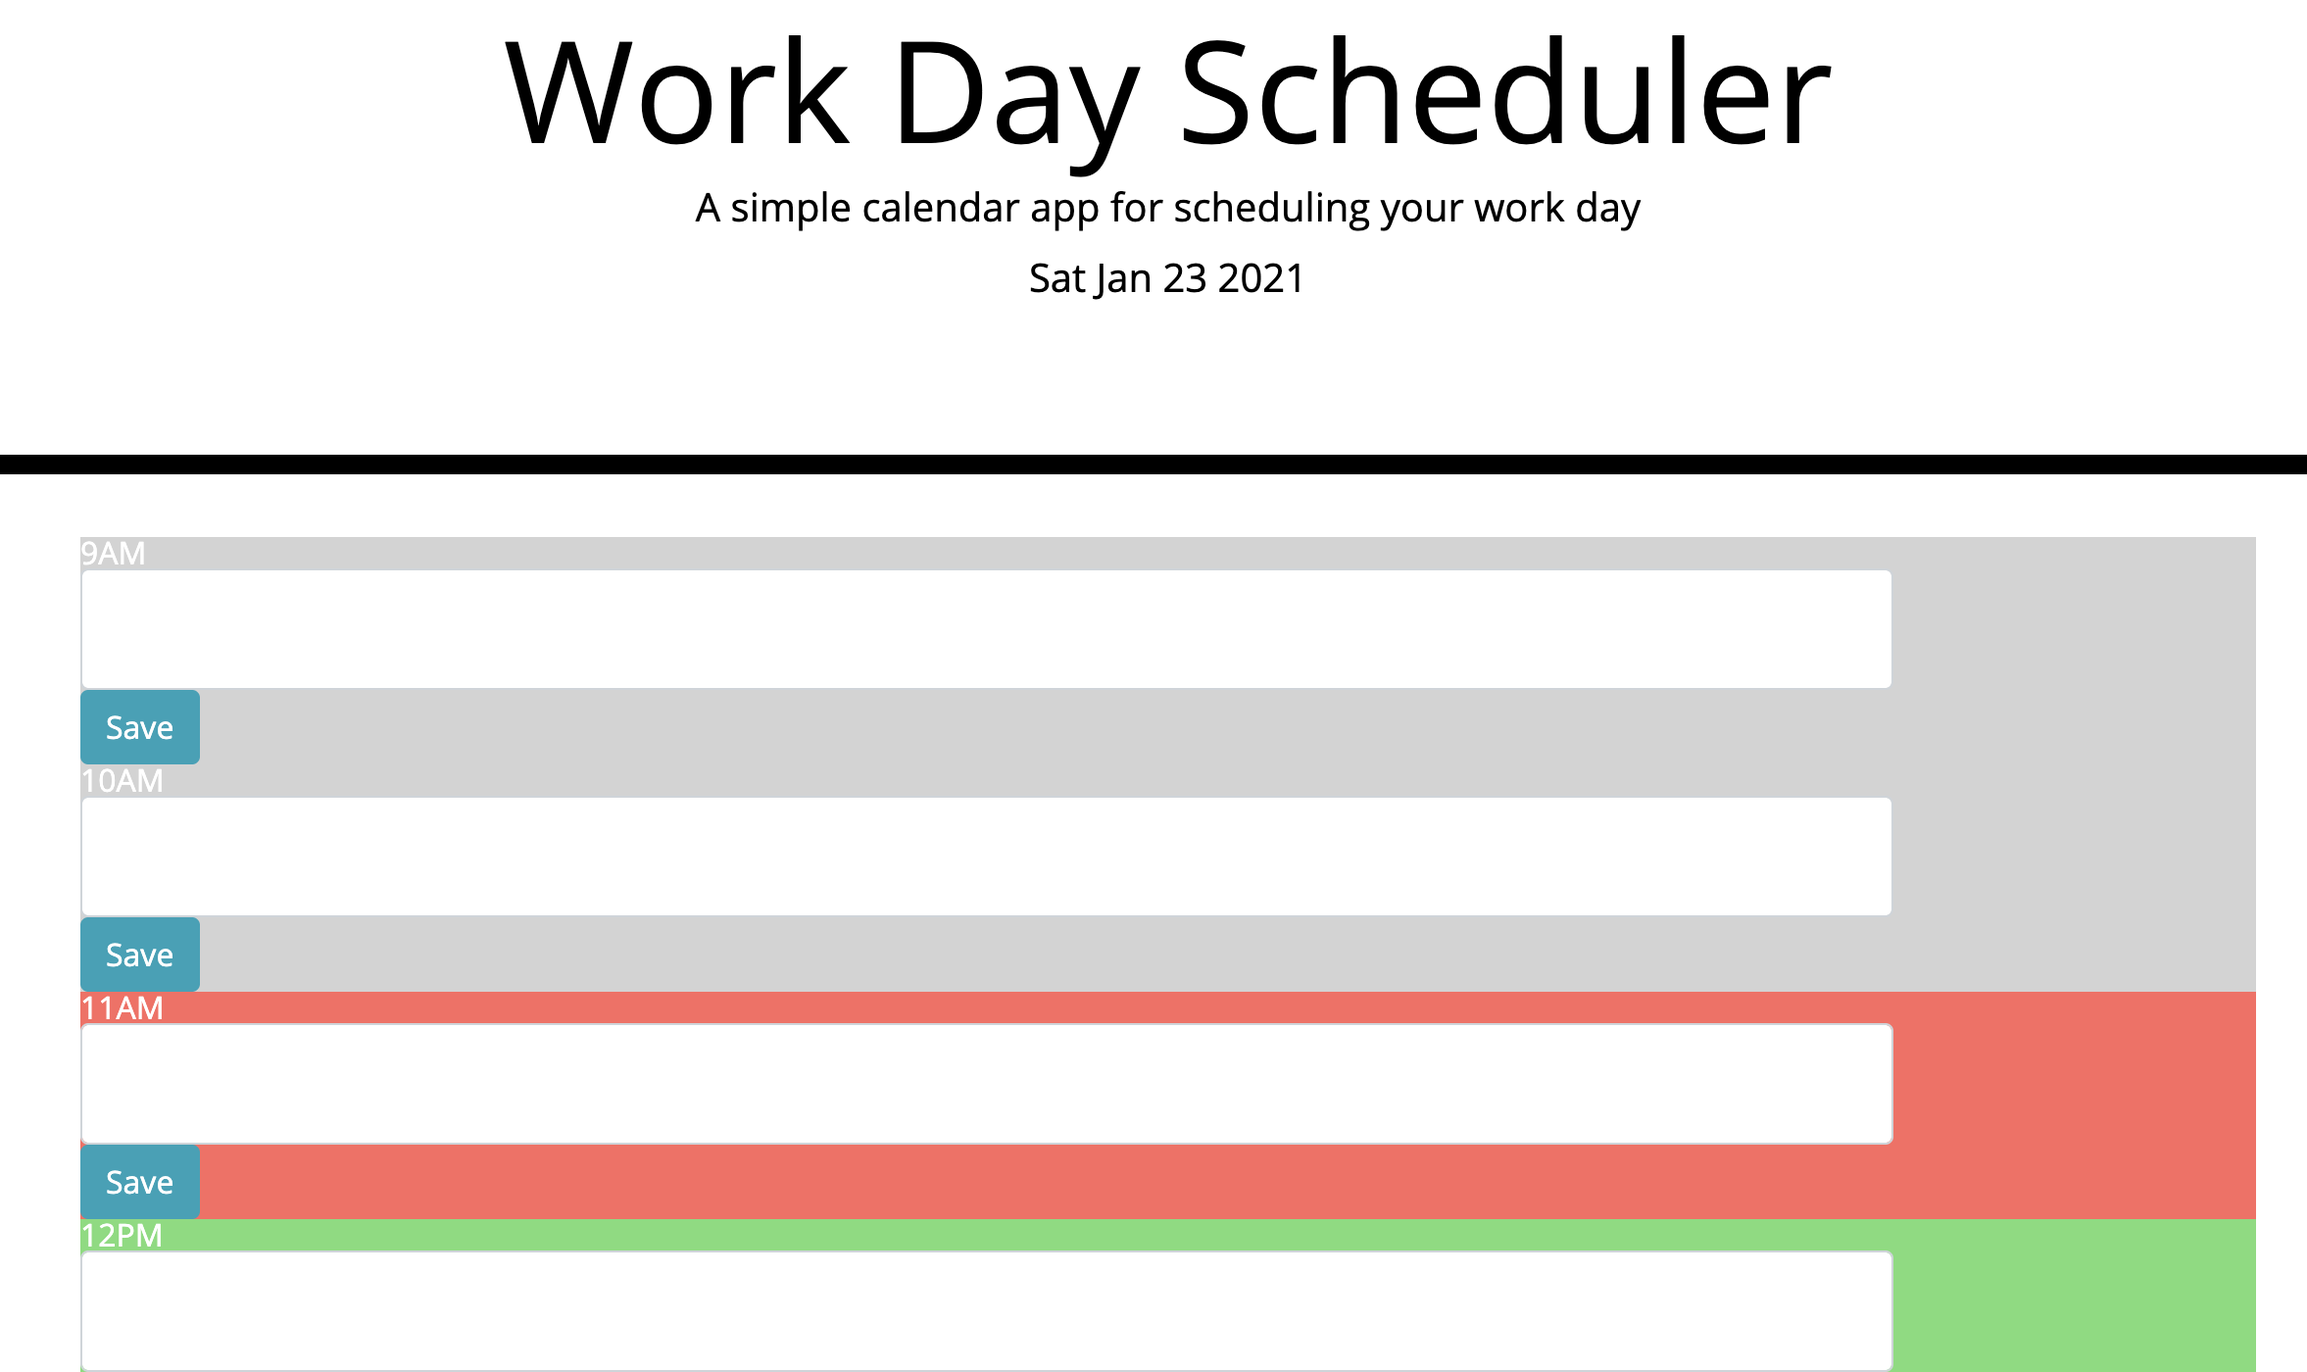
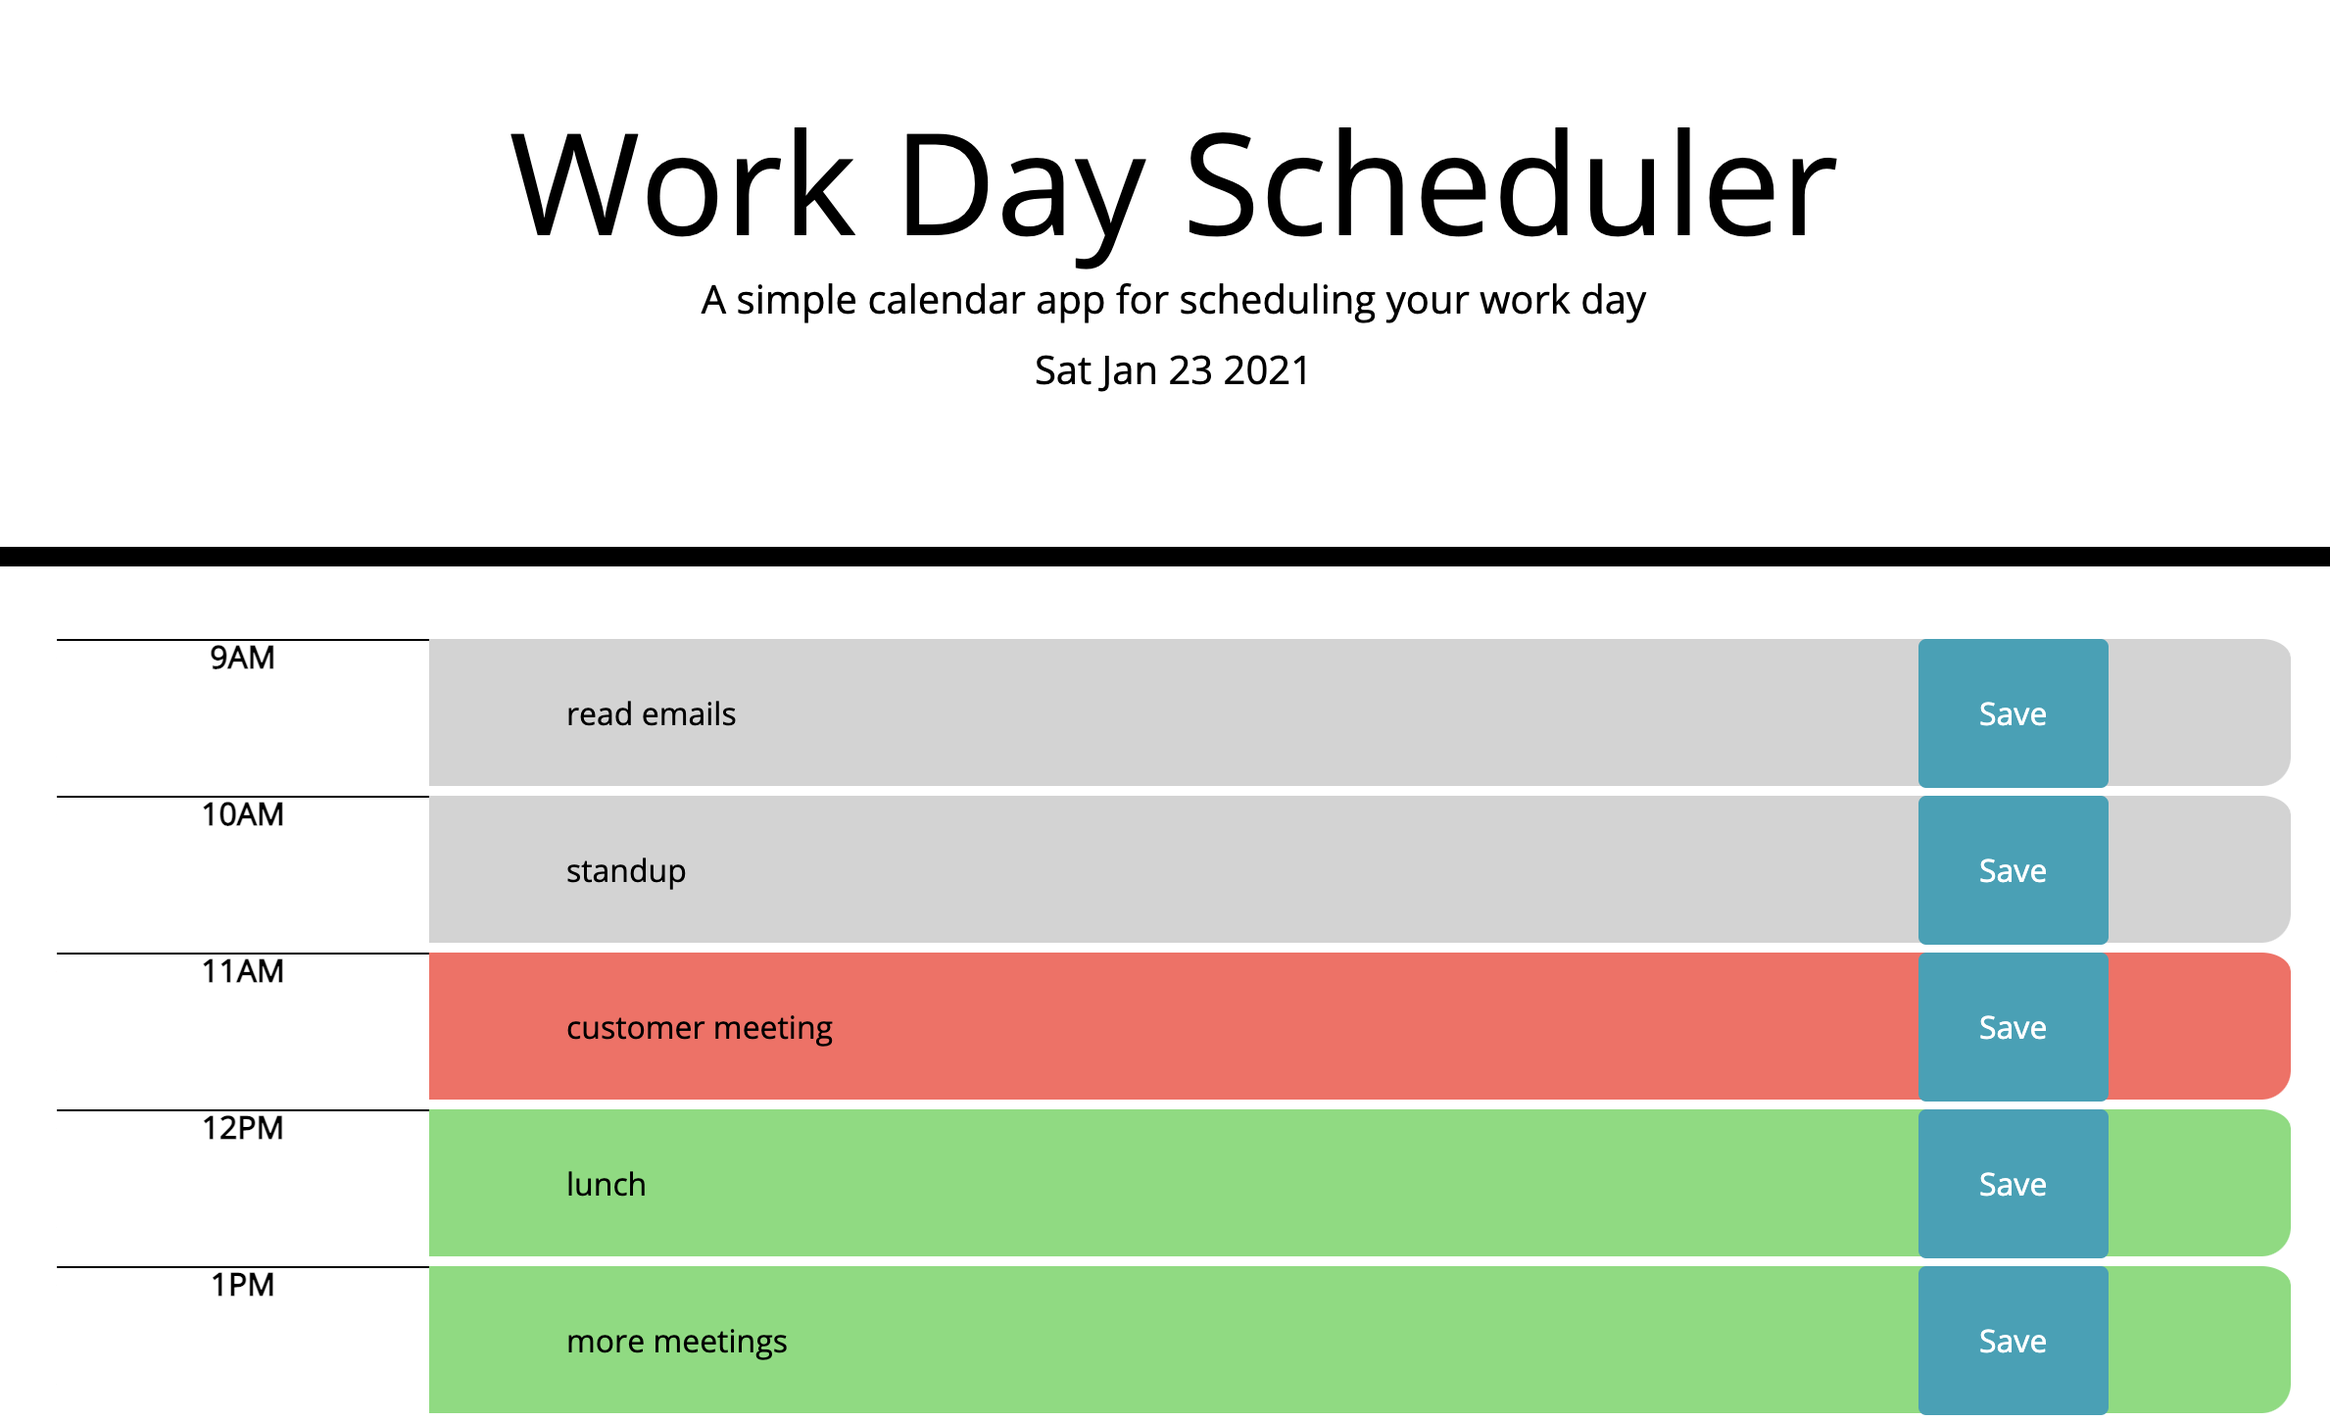
FINAL VERSION

diff --git a/index.html b/index.html
@@ -6,9 +6,12 @@
     <meta name="viewport" content="width=device-width, initial-scale=1.0" />
     <meta http-equiv="X-UA-Compatible" content="ie=edge" />
     <link rel="stylesheet" href="https://stackpath.bootstrapcdn.com/bootstrap/4.3.1/css/bootstrap.min.css" />
+
     <link rel="stylesheet" href="https://use.fontawesome.com/releases/v5.8.1/css/all.css"
       integrity="sha384-50oBUHEmvpQ+1lW4y57PTFmhCaXp0ML5d60M1M7uH2+nqUivzIebhndOJK28anvf" crossorigin="anonymous" />
+
     <link href="https://fonts.googleapis.com/css?family=Open+Sans&display=swap" rel="stylesheet" />
+
     <link rel="stylesheet" href="style.css" />
     <title>Work Day Scheduler</title>
   </head>
@@ -19,77 +22,96 @@
       <p class="lead">A simple calendar app for scheduling your work day</p>
       <p id="currentDay" class="lead"></p>
     </header>
+
+    <!-- Timeblocks go here -->
     <div class="container">
-      <!-- Timeblocks containing time rows -->
-      <!-- Time rows contain time, text, button -->
 
-          <!-- 9am Timeblock -->
-          <div class="row mb-3" id="9" value="9">
-            <div class="col--md-1 ">9AM</div>
-            <textarea class="description form-control col-md-10" type="text" id="input-9" data-time="9"></textarea>
-            <button class ="btn btn-info" type="button" id="9">Save</button>
-          </div>
+      <!-- 9am -->
+      <div class="row time-block" value="9">
+        <div class="col-2 hour">9AM</div>
+        <div class="col-8">
+          <input class="description textarea form-control col-10" type="text" placeholder="Task" id="input-9">
+        </div>
+        <button class="btn btn-info" type="button" id="9">Save</button>
+      </div>
 
-          <!-- 9am Timeblock -->
-          <div class="row mb-3" id="10" value="10">
-            <div class="col--md-1 ">10AM</div>
-            <textarea class="description form-control col-md-10" type="text" id="input-10" data-time="10"></textarea>
-            <button class="btn btn-info" type="button" id="10">Save</button>
-          </div>
+      <!-- 10am -->
+      <div class="row time-block" value="10">
+        <div class="col-2 hour">10AM</div>
+        <div class="col-8">
+          <input class="description textarea form-control col-10" type="text" placeholder="Task" id="input-10">
+        </div>
+        <button class="btn btn-info" type="button" id="10">Save</button>
+      </div>
 
-          <!-- 9am Timeblock -->
-          <div class="row mb-3" id="11" value="11">
-            <div class="col--md-1 ">11AM</div>
-            <textarea class="description form-control col-md-10" type="text" id="input-11" data-time="11"></textarea>
-            <button class="btn btn-info" type="button" id="11">Save</button>
-          </div>
+      <!-- 11am -->
+      <div class="row time-block" value="11">
+        <div class="col-2 hour">11AM</div>
+        <div class="col-8">
+          <input class="description textarea form-control col-10" type="text" placeholder="Task" id="input-11">
+        </div>
+        <button class="btn btn-info" type="button" id="11">Save</button>
+      </div>
 
-          <!-- 9am Timeblock -->
-          <div class="row mb-3" id="12" value="12">
-            <div class="col--md-1 ">12PM</div>
-            <textarea class="description form-control col-md-10" type="text" id="input-12" data-time="12"></textarea>
-            <button class="btn btn-info" type="button" id="12">Save</button>
-          </div>
+      <!-- 12pm -->
+      <div class="row time-block" value="12">
+        <div class="col-2 hour">12PM</div>
+        <div class="col-8">
+          <input class="description textarea form-control col-10" type="text" placeholder="Task" id="input-12">
+        </div>
+        <button class="btn btn-info" type="button" id="12">Save</button>
+      </div>
 
-          <!-- 9am Timeblock -->
-          <div class="row mb-3" id="1" value="13">
-            <div class="col--md-1 ">1PM</div>
-            <textarea class="description form-control col-md-10" type="text" id="input-13" data-time="13"></textarea>
-            <button class="btn btn-info" type="button" id="13">Save</button>
-          </div>
+      <!-- 1pm -->
+      <div class="row time-block" value="13">
+        <div class="col-2 hour">1PM</div>
+        <div class="col-8">
+          <input class="description textarea form-control col-10" type="text" placeholder="Task" id="input-13">
+        </div>
+        <button class="btn btn-info" type="button" id="13">Save</button>
+      </div>
 
-          <!-- 9am Timeblock -->
-          <div class="row mb-3" id="2" value="14">
-            <div class="col--md-1 ">2PM</div>
-            <textarea class="description form-control col-md-10" type="text" id="input-14" data-time="14"></textarea>
-            <button class="btn btn-info" type="button" id="14">Save</button>
-          </div>
+      <!-- 2pm -->
+      <div class="row time-block" value="14">
+        <div class="col-2 hour">2PM</div>
+        <div class="col-8">
+          <input class="description textarea form-control col-10" type="text" placeholder="Task" id="input-14">
+        </div>
+        <button class="btn btn-info" type="button" id="14">Save</button>
+      </div>
 
-          <!-- 9am Timeblock -->
-          <div class="row mb-3" id="3" value="15">
-            <div class="col--md-1 ">3PM</div>
-            <textarea class="description form-control col-md-10" type="text" id="input-15" data-time="15"></textarea>
-            <button class="btn btn-info" type="button" id="15">Save</button>
-          </div>
+      <!-- 3pm -->
+      <div class="row time-block" value="15">
+        <div class="col-2 hour">3PM</div>
+        <div class="col-8">
+          <input class="description textarea form-control col-10" type="text" placeholder="Task" id="input-15">
+        </div>
+        <button class="btn btn-info" type="button" id="15">Save</button>
+      </div>
 
-          <!-- 9am Timeblock -->
-          <div class="row mb-3" id="4" value="16">
-            <div class="col--md-1 ">4PM</div>
-            <textarea class="description form-control col-md-10" type="text" id="input-16" data-time="16"></textarea>
-            <button class="btn btn-info" type="button" id="16">Save</button>
-          </div>
+      <!-- 4pm -->
+      <div class="row time-block" value="16">
+        <div class="col-2 hour">4PM</div>
+        <div class="col-8">
+          <input class="description textarea form-control col-10" type="text" placeholder="Task" id="input-16">
+        </div>
+        <button class="btn btn-info" type="button" id="16">Save</button>
+      </div>
 
-          <!-- 5pm Timeblock -->
-          <div class="row mb-3" id="5" value="17">
-            <div class="col--md-1 ">5PM</div>
-            <textarea class="description form-control col-md-10" type="text" id="input-17" data-time="17"></textarea>
-            <button class="btn btn-info" type="button" id="17">Save</button>
-          </div>
+      <!-- 5pm -->
+      <div class="row time-block" value="17">
+        <div class="col-2 hour">5PM</div>
+        <div class="col-8">
+          <input class="description textarea form-control col-10" type="text" placeholder="Task" id="input-17">
+        </div>
+        <button class="btn btn-info" type="button" id="17">Save</button>
+      </div>
+
     </div>
 
     <script src="https://cdnjs.cloudflare.com/ajax/libs/jquery/3.2.1/jquery.min.js"></script>
-    <script src="https://cdnjs.cloudflare.com/ajax/libs/moment.js/2.24.0/moment.min.js"></script>
     <script src="script.js"></script>
+
   </body>
 
 </html>

diff --git a/script.js b/script.js
@@ -5,97 +5,96 @@ var todayDate = today.toDateString();
 // add text to page to display
 $("#currentDay").text(todayDate);
 
-// variable to contain all tags with row class
-var rowColor = $(".row");
-
-// create an array and check if there is data in the 'users' key in localStorage
-// if true, expand the array and add another index; else, create first index
-var userArray = JSON.parse(localStorage.getItem(`${todayDate}`)) || [];
-
 // display current hour
 var currentHour = new Date().getHours();
 console.log("current hour: " + currentHour);
 
-// going through all rows and applying color based on the the rows hour value
-for (var i = 0; i < rowColor.length; i++) {
-    // display value for each row
-    var hourValue = parseInt(rowColor[i].getAttribute("value"));
-    // console.log("row " + rowColor[i].getAttribute("value") + " hour value variable - " + hourValue);
+// selecting all tags with value attribute
+var rows = document.querySelectorAll("[value]");
+
+// creating object with each hour as a key
+var timeEntry = {
+    9: "",
+    10: "",
+    11: "",
+    12: "",
+    13: "",
+    14: "",
+    15: "",
+    16: "",
+    17: ""
+}
+
+//update timeEntry oject with the stored values from local storage
+Object.assign(timeEntry, JSON.parse(localStorage.getItem(`${todayDate}`)));
+
+// Assign different colors to different times
+rows.forEach(function (rowElement) {
+    // grabbing the value for each row
+    var rowHour = parseInt(rowElement.getAttribute("value"));
+    // display value for row
+    console.log(rowHour);
+
+    // assign the value of row into the input tag value
+    rowElement.querySelector("input").value = timeEntry[rowHour];
 
     // compare hour of row and current hour
-    if (currentHour > hourValue) {
+    if (currentHour > rowHour) {
         // apply past class to row if current hour is greater than rows hour value
-        var pastHours = rowColor[i].setAttribute("class", "past");
-
-        // apply future class to row if current hour is less than rows hour value
-    } else if (currentHour < hourValue) {
-        var futureHours = rowColor[i].setAttribute("class", "future");
+        $(rowElement).addClass("past");
+    }
+    // apply future class to row if current hour is less than rows hour value
+    else if (currentHour < rowHour) {
+        $(rowElement).addClass("future");
 
         // otherwise apply present class
     } else {
-        var presentHour = rowColor[i].setAttribute("class", "present");
+        $(rowElement).addClass("present");
     }
 
-}
-
-// what happens when Save button is clicked
-$("button").on("click", function (event) {
-    // display button pressed
-    console.log(event.currentTarget);
-    // assign id of button pressed to hour variable
-    var hour = event.currentTarget.id;
-    // display id of button pressed
-    console.log("variable hour: " + hour);
-
-    // using hour variable, search for id of textarea tag and store value into variable
-    var userInput = $("#input-" + hour).val();
-    // display user input
-    console.log("task entered: " + userInput);
-
-    // concatenate hour and task
-    console.log("hour: " + hour + "; task: " + userInput);
-
-    // assign value to userInitials variable
-    // userInitials = userInput.value; this is my userInput variable
-
-    // object containing hour and task
-    var user = {
-        time: hour,
-        task: userInput
-    };
-
-    // push values from user object to array
-    userArray.push(user);
-
-    // store array data as an item inside todayDate key
-    localStorage.setItem(`${todayDate}`, JSON.stringify(userArray));
-
+    // el.querySelector(".seg").className += " present";
 });
 
+// going through all rows and applying color based on the rows hourValue
+// for (var i = 0; i < rows.length; i++) {
+//     // display value for each row
+//     // var hourValue = parseInt(rows[i].getAttribute("value"));
+//     // console.log("row " + rows[i].getAttribute("value") + " hour value variable - " + hourValue);
 
-// display task from local storage to page
-function loadData() {
-    // retrieve data in local storage key and store into an array of objects
-    var getTasks = JSON.parse(localStorage.getItem(`${todayDate}`));
-    console.log(getTasks);
+//     // compare hour of row and current hour
+//     if (currentHour > hourValue) {
+//         // apply past class to row if current hour is greater than rows hour value
+//         var pastHours = rows[i].setAttribute("class", "past");
 
-    // check if there was data in local storage
-    if (getTasks !== null) {
-        userArray = getTasks;
-        console.log(userArray);
-    } else {
-        return;
-    }
+//         // apply future class to row if current hour is less than rows hour value
+//     } else if (currentHour < hourValue) {
+//         var futureHours = rows[i].setAttribute("class", "future");
 
-    // push saved events back onto page by appending if the key is equal to the index hour of the array object
-    var keys = Object.entries(getTasks);
-    console.log(keys);
-    keys.forEach(([key, value]) => {
-        for (var i = key; i < 18; i++)
-            if ($("#input-" + i).attr('data-time') === key) {
-                $('#input-' + i).append(value);
-            }
-    })
-}
+//         // otherwise apply present class
+//     } else {
+//         var presentHour = rows[i].setAttribute("class", "present");
+//     }
+// }
 
-loadData();
+
+
+// Add event handler to save event info
+$(".btn").click(function (event) {
+    // display what button was pressed and id of button
+    console.log(event.currentTarget);
+    console.log("id of button pressed: " + parseInt(event.currentTarget.id));
+
+    // get parent element of button pressed
+    var parentValue = $(this).parent();
+
+    // pull in value of parent row element and assign to hourValue
+    var hourValue = parseInt(parentValue.attr("value"));
+    console.log("hour value of parent element: " + hourValue);
+
+    // grab the hourValue from parent element and select that key in timeEntry object
+    // assign that key the value of user input in input tag
+    timeEntry[hourValue] = parentValue.find("input").val();
+
+    // store user input from timeEntry object into local storage key
+    localStorage.setItem(`${todayDate}`, JSON.stringify(timeEntry));
+});

diff --git a/style.css b/style.css
@@ -13,24 +13,28 @@ body {
 }
 
 .row {
-  white-space: pre-wrap;
   height: 80px;
-  border-top: 1px solid white;
+  border-top: 5px solid white;
 }
 
 .hour {
   background-color: #ffffff;
   color: #000000;
-  border-top: 1px dashed #000000;
+  border-top: 1px solid #000000;
+  font-weight: bold;
 }
 
-textarea{
+.btn{
+  padding: 10px 30px;
+}
+
+.textarea{
   background: transparent;
   border: none;
   resize: none;
   color: #000000;
-  border-left: 1px solid black;
-  padding: 10px;
+  padding: 20px;
+  margin: 18px 35px;
 }
 
 .time-block{

diff --git a/README.md b/README.md
@@ -8,6 +8,7 @@ If the current hour is equal to a timeslot, that will appear in red.
 
 ## What Was Done
 * Modify HTML page and create time blocks
+* Modify CSS page
 * Build JS page for color-coding rows and saving/retrieving data
 * Use localStorage
 
